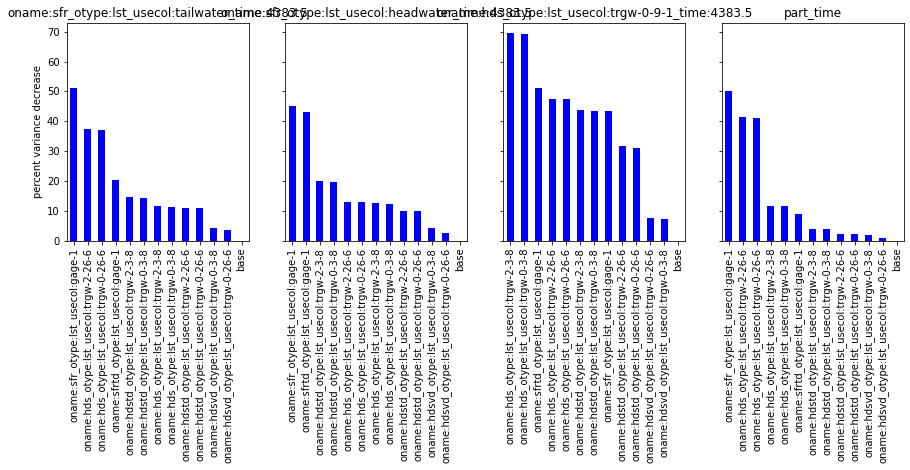
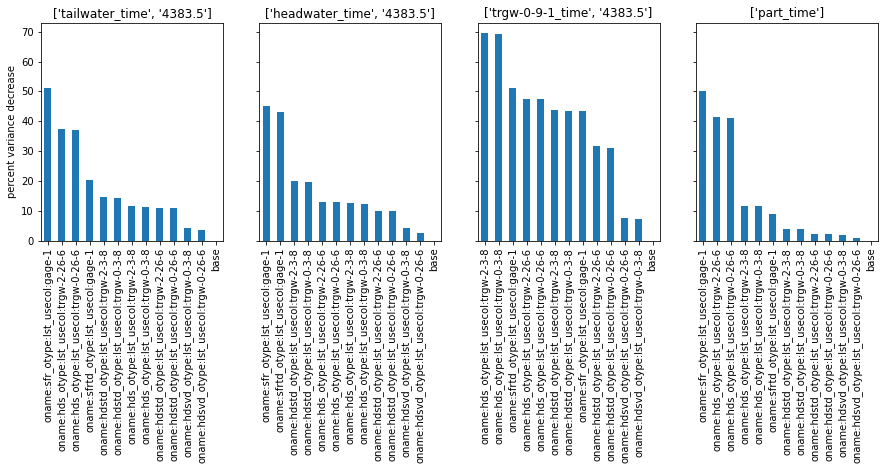
derp

Changed region(s): [[0.0, 0.0, 1.0, 0.983], [0.8542, 0.0, 0.9458, 0.0596]]

diff --git a/docs/freyberg_fosm_and_dataworth.md b/docs/freyberg_fosm_and_dataworth.md
@@ -1,4 +1,4 @@
-# FOSM, data worth and related assessments
+# FOSM, Data Worth and Related Assessments
 
 Linear uncertainty analysis is also known as “first order second moment” (or FOSM) analysis. It provides approximate mathematical characterisation of prior predictive probability distributions, and of posterior parameter and predictive probability distributions. It has other uses as well. It can be used to demonstrate how the history-matching process bestows worth on data. It can also be deployed to track the flow of information from field measurements of system state to parameters, and ultimately from parameters to model predictions. It does all of these things by implementing Bayes equation under the following assumptions:
 
@@ -122,7 +122,7 @@ plt.colorbar()
 
 
 
-    <matplotlib.colorbar.Colorbar at 0x20e7fb6f880>
+    <matplotlib.colorbar.Colorbar at 0x15a03fbfcd0>
 
 
 
@@ -173,7 +173,7 @@ sc
 
 
 
-    <pyemu.sc.Schur at 0x20e7827c7f0>
+    <pyemu.sc.Schur at 0x15a07246a00>
 
 
 
@@ -244,7 +244,7 @@ sc.posterior_parameter
 
 
 
-    <pyemu.mat.mat_handler.Cov at 0x20e5dcd4430>
+    <pyemu.mat.mat_handler.Cov at 0x15a07b62d90>
 
 
 
@@ -320,7 +320,7 @@ plt.colorbar(c)
 
 
 
-    <matplotlib.colorbar.Colorbar at 0x20e7eaa3ee0>
+    <matplotlib.colorbar.Colorbar at 0x15a04337220>
 
 
 
@@ -887,7 +887,7 @@ for forecast in par_contrib.columns:
     fore_df.iloc[:10].plot(kind="bar",color="tab:blue", ax =ax)
     ax.set_title(forecast)
     ax.set_ylabel("percent variance reduction")
-plt.tight_layout()
+#plt.tight_layout()
 plt.show()
 ```
 
@@ -1175,10 +1175,10 @@ for forecast in dw_rm.columns:
     i+=1
     fore_df = dw_rm.loc[:,forecast].copy()
     fore_df.sort_values(inplace=True, ascending=False)
-    fore_df.iloc[:10].plot(kind="bar",color="b", ax=ax)
-    ax.set_title(forecast)
+    fore_df.iloc[:10].plot(kind="bar",color="tab:blue", ax=ax)
+    ax.set_title(forecast.split(':')[-2:])
     ax.set_ylabel("percent variance increase")
-plt.tight_layout()
+#plt.tight_layout()
 plt.show()
 ```
 
@@ -1207,9 +1207,10 @@ for forecast in dw_ad.columns:
     i+=1
     fore_df_ad = dw_ad.loc[:,forecast].copy()
     fore_df_ad.sort_values(inplace=True, ascending=False)
-    fore_df_ad.iloc[:20].plot(kind="bar",color="b", ax=ax)
-    ax.set_title(forecast)
+    fore_df_ad.iloc[:20].plot(kind="bar",color="tab:blue", ax=ax)
+    ax.set_title(forecast.split(':')[-2:])
     ax.set_ylabel("percent variance decrease")
+#plt.tight_layout()
 plt.show()
 ```
 
@@ -1261,9 +1262,7 @@ Now we repeat the analysis above with the new dictionary of potential new observ
 
 An __important__ detail here: the potential new observation weights. 
 
-Inherent to these analyses is the assumption that calibration will be able to achieve a fit with observation data that reflects measurement noise (and that the observation weight is equal to the inverse of the standard deviation of noise). 
-
-We need to provide `pyemu` with the weights for these potential new observations. Weights need to reflect expected measurement noise. We do so by passing the a value to `reset_zero_weight` when calling `get_added_obs_importance()`.
+Inherent to these analyses is the assumption that calibration will be able to achieve a fit with observation data that reflects measurement noise (and that the observation weight is equal to the inverse of the standard deviation of noise). We need to provide `pyemu` with the weights for these potential new observations. Weights need to reflect expected measurement noise. We do so by passing the a value to `reset_zero_weight` when calling `get_added_obs_importance()`.
 
 Let's assign the same weight to all new obsevrations:
 
@@ -1292,7 +1291,7 @@ df_worth_new= sc.get_added_obs_importance(base_obslist=sc.pst.nnz_obs_names,
 print("took:",datetime.now() - start)
 ```
 
-    took: 0:01:59.912469
+    took: 0:01:55.739765
     
 
 As before, `get_added_obs_importance()` returns a dataframe with a column for each forecast, and a row for each potential new observation:
